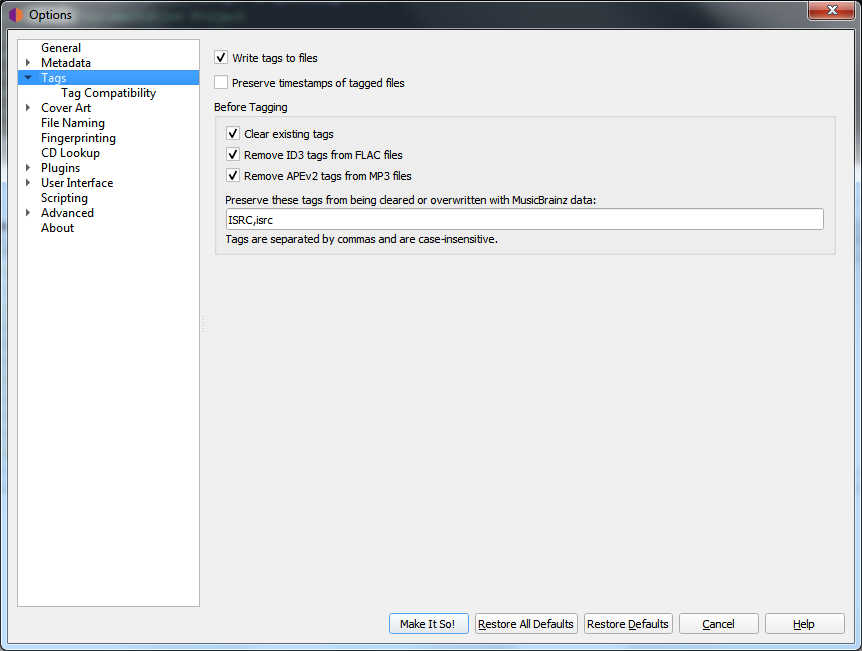
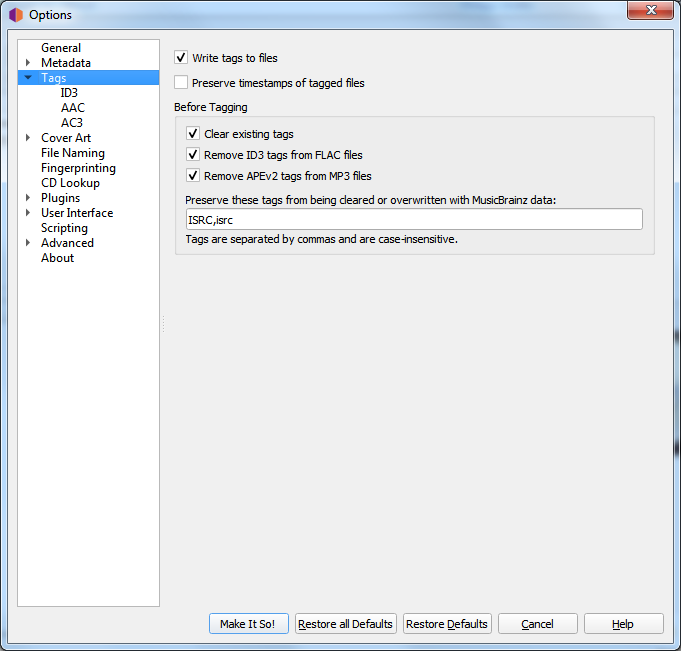
Separate tag compatibility configureation option screens

diff --git a/source/config/options_tags_compatibility_id3.rst b/source/config/options_tags_compatibility_id3.rst
@@ -1,0 +1,49 @@
+.. MusicBrainz Picard Documentation Project
+.. Prepared in 2020 by Bob Swift (bswift@rsds.ca)
+.. This MusicBrainz Picard User Guide is licensed under CC0 1.0
+.. A copy of the license is available at https://creativecommons.org/publicdomain/zero/1.0
+
+
+ID3 Files
+=========
+
+.. index::
+   single: configuration; id3 tag options
+
+.. image:: ../images/options-tags-compatibility-id3.png
+   :width: 100 %
+
+**ID3v2 version**
+
+   Although ID3v2.4 is the latest version, its support in music players is still lacking. While somesoftware has
+   no problem using version 2.4 tags, others may not be able to read the tags and display the information. Support
+   for ID3v2.4 in other media players (such as smartphones) is variable. Other than native support for
+   multi-valued tags in v2.4, the `Picard Tag Mapping <https://picard.musicbrainz.org/docs/mappings/>`_ will show
+   you what you lose when choosing v2.3 instead of v2.4.
+
+**ID3v2 text encoding**
+
+   The default for version 2.4 is UTF-8, the default for version 2.3 is UTF-16. Use ISO-8859-1 only if you face
+   compatibility issues with your player.
+
+**Join ID3v23 tags with**
+
+   As mentioned above, ID3v2.3 does not support multi-value tags, and so Picard flattens these to strings before
+   saving them to ID3v2.3 tags. This setting defines the string used to separate the values when flattened. Use
+   '; ' for the greatest compatibility (rather than '/' since tags more often contain a '/' than a ';') and for
+   the best visual compatibility in Picard between ID3v2.3 and other tagging formats.
+
+**Save iTunes compatible grouping and work**
+
+   Save the tags grouping and work so that they are compatible with current iTunes versions. Without this option
+   grouping will be displayed in iTunes as "work name" and work will not be available. See the
+   `Picard Tag Mapping page <https://picard.musicbrainz.org/docs/mappings/>`_ for details.
+
+   .. note::
+
+      For other players supporting grouping and work you might need to disable this option.
+      `MusicBee <https://getmusicbee.com/>`_ is one example of this.
+
+**Also include ID3v1 tags in the files**
+
+   This is not recommended at all. ID3v1.1 tags are obsolete and may not work with non-latin scripts.

diff --git a/source/config/options_tags_compatibility_aac.rst b/source/config/options_tags_compatibility_aac.rst
@@ -1,0 +1,34 @@
+.. MusicBrainz Picard Documentation Project
+.. Prepared in 2020 by Bob Swift (bswift@rsds.ca)
+.. This MusicBrainz Picard User Guide is licensed under CC0 1.0
+.. A copy of the license is available at https://creativecommons.org/publicdomain/zero/1.0
+
+
+AAC Files
+=========
+
+.. index::
+   single: configuration; aac tag options
+
+.. image:: ../images/options-tags-compatibility-aac.png
+   :width: 100 %
+
+Picard can save APEv2 tags to pure AAC files, which by default do not support tagging. APEv2 tags in AAC
+are supported by some players, but players not supporting AAC files with APEv2 tags can have issues loading
+and playing those files. To deal with this you can choose whether to save tags to those files:
+
+**Save APEv2 tags**
+
+   Picard will save APEv2 tags to the files.
+
+**Do not save tags**
+
+   Picard will not save any tags to the files, but you can still use Picard to rename them.
+   By default existing APEv2 tags will be kept in the file.
+
+**Remove APEv2 tags**
+
+   If you have "Do not save tags" enabled checking this option will cause Picard to remove
+   existing APEv2 tags from the file on saving.
+
+Regardless of how you have configured saving tags Picard will always read existing APEv2 tags in AAC files.

diff --git a/source/config/options_tags_compatibility_ac3.rst b/source/config/options_tags_compatibility_ac3.rst
@@ -1,0 +1,34 @@
+.. MusicBrainz Picard Documentation Project
+.. Prepared in 2020 by Bob Swift (bswift@rsds.ca)
+.. This MusicBrainz Picard User Guide is licensed under CC0 1.0
+.. A copy of the license is available at https://creativecommons.org/publicdomain/zero/1.0
+
+
+AC3 Files
+=========
+
+.. index::
+   single: configuration; ac3 tag options
+
+.. image:: ../images/options-tags-compatibility-ac3.png
+   :width: 100 %
+
+Picard can save APEv2 tags to pure AC3 files, which by default do not support tagging. APEv2 tags in AC3
+are supported by some players, but players not supporting AC3 files with APEv2 tags can have issues loading
+and playing those files. To deal with this you can choose whether to save tags to those files:
+
+**Save APEv2 tags**
+
+   Picard will save APEv2 tags to the files.
+
+**Do not save tags**
+
+   Picard will not save any tags to the files, but you can still use Picard to rename them.
+   By default existing APEv2 tags will be kept in the file.
+
+**Remove APEv2 tags**
+
+   If you have "Do not save tags" enabled checking this option will cause Picard to remove
+   existing APEv2 tags from the file on saving.
+
+Regardless of how you have configured saving tags Picard will always read existing APEv2 tags in AC3 files.

diff --git a/source/troubleshooting/no_coverart.rst b/source/troubleshooting/no_coverart.rst
@@ -56,8 +56,7 @@ Coverart that is saved with the files isn't displayed
    "cover.jpg" or "folder.jpg"), and some support both. Picard allows you to specify how the cover art images should
    be saved.  Please see the :doc:`../config/options_location` section of the Coverart options for details.
 
-   You should also confirm that your player supports the version of the tags being written.  Please see the
-   :doc:`../config/options_tag_compatibility` section for more information.
+   You should also confirm that your player supports the version of the tags being written.
 
 **Embedded cover image too large**
 

diff --git a/source/troubleshooting/missing_tags.rst b/source/troubleshooting/missing_tags.rst
@@ -36,5 +36,4 @@ There are typically four reasons that tags may not be written or updated when fi
 **The file type does not support writing tags**
 
    Confirm that the file type that you are writing actually supports the tags that are to be written.  For example,
-   WAV files cannot be tagged due to the lack of a standard for doing so.  Please see the
-   :doc:`../config/options_tag_compatibility` section for additional information.
+   WAV files cannot be tagged due to the lack of a standard for doing so.

diff --git a/source/config/options_tags.rst b/source/config/options_tags.rst
@@ -29,10 +29,14 @@ Tag Options
 
       Details:
       :doc:`options_before_tagging` /
-      :doc:`options_tag_compatibility`
+      :doc:`options_tags_compatibility_id3` /
+      :doc:`options_tags_compatibility_aac` /
+      :doc:`options_tags_compatibility_ac3`
 
 .. toctree::
    :hidden:
 
    options_before_tagging
-   options_tag_compatibility
+   options_tags_compatibility_id3
+   options_tags_compatibility_aac
+   options_tags_compatibility_ac3

diff --git a/TODO.md b/TODO.md
@@ -19,3 +19,5 @@
   - left-pane
   - right-pane
   - tags pane
+
+- Update Tags Configuration section to include WAVE files once new mutagen module is available to support this tagging.
